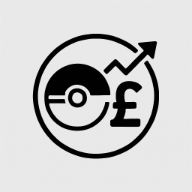
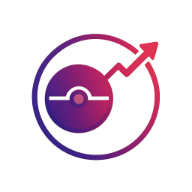
Update to fvicon and discord

Changed region(s): [[0.1562, 0.1562, 0.8438, 0.8438]]

diff --git a/src/components/Footer.tsx b/src/components/Footer.tsx
@@ -1,12 +1,11 @@
-import React from 'react'
-import Link from 'next/link'
+import React from "react";
+import Link from "next/link";
 
 export default function Footer() {
   return (
-    <footer className="bg-white/5 dark:bg-black/20 backdrop-blur-lg border-t border-white/10 dark:border-white/5 mt-auto">
+    <footer className="bg-transparent backdrop-blur-lg border-t border-white/10 dark:border-white/5 mt-auto">
       <div className="max-w-[1280px] mx-auto px-6 py-8">
-        <div className="grid grid-cols-1 md:grid-cols-3 gap-8">
-          
+        <div className="grid grid-cols-1 md:grid-cols-2 gap-8">
           {/* Left Column - Branding */}
           <div className="space-y-4">
             <h3 className="text-lg font-semibold text-black dark:text-white">
@@ -15,83 +14,57 @@ export default function Footer() {
             <p className="text-sm text-black/70 dark:text-white/70">
               Made for sellers. Updated for today.
             </p>
+           
           </div>
 
           {/* Center Column - Links */}
-          <div className="space-y-4">
-            <h4 className="text-sm font-medium text-black dark:text-white uppercase tracking-wide">
-              Quick Links
-            </h4>
-            <div className="space-y-2">
-              <Link 
-                href="/privacy" 
-                className="block text-sm text-black/70 dark:text-white/70 hover:text-black dark:hover:text-white transition-colors"
-              >
-                Privacy Policy
-              </Link>
-              <Link 
-                href="/auth/signin" 
-                className="block text-sm text-black/70 dark:text-white/70 hover:text-black dark:hover:text-white transition-colors"
-              >
-                Sign In
-              </Link>
-            </div>
-          </div>
-
-          {/* Right Column - Community */}
-          <div className="space-y-4">
-            <h4 className="text-sm font-medium text-black dark:text-white uppercase tracking-wide">
-              Community
-            </h4>
-            <div className="space-y-3">
-              {/* Discord Link - You can add your Discord invite link here */}
-              <a 
-                href="YOUR_DISCORD_INVITE_LINK_HERE" 
-                target="_blank" 
+          <div className="space-y-4 justify-end flex items-start">
+          <Link
+                href="https://discord.gg/s6AGM8cm"
+                target="_blank"
                 rel="noopener noreferrer"
                 className="flex items-center space-x-3 text-sm text-black/70 dark:text-white/70 hover:text-black dark:hover:text-white transition-colors"
               >
                 {/* Discord Icon */}
-                <svg 
-                  className="w-5 h-5" 
-                  fill="currentColor" 
+                <svg
+                  className="w-5 h-5"
+                  fill="currentColor"
                   viewBox="0 0 24 24"
                   aria-hidden="true"
                 >
-                  <path d="M20.317 4.3698a19.7913 19.7913 0 00-4.8851-1.5152.0741.0741 0 00-.0785.0371c-.211.3753-.4447.8648-.6083 1.2495-1.8447-.2762-3.68-.2762-5.4868 0-.1636-.3933-.4058-.8742-.6177-1.2495a.077.077 0 00-.0785-.037 19.7363 19.7363 0 00-4.8852 1.515.0699.0699 0 00-.0321.0277C.5334 9.0458-.319 13.5799.0992 18.0578a.0824.0824 0 00.0312.0561c2.0528 1.5076 4.0413 2.4228 5.9929 3.0294a.0777.0777 0 00.0842-.0276c.4616-.6304.8731-1.2952 1.226-1.9942a.076.076 0 00-.0416-.1057c-.6528-.2476-1.2743-.5495-1.8722-.8923a.077.077 0 01-.0076-.1277c.1258-.0943.2517-.1923.3718-.2914a.0743.0743 0 01.0776-.0105c3.9278 1.7933 8.18 1.7933 12.0614 0a.0739.0739 0 01.0785.0095c.1202.099.246.1981.3728.2924a.077.077 0 01-.0066.1276 12.2986 12.2986 0 01-1.873.8914.0766.0766 0 00-.0407.1067c.3604.698.7719 1.3628 1.225 1.9932a.076.076 0 00.0842.0286c1.961-.6067 3.9495-1.5219 6.0023-3.0294a.077.077 0 00.0313-.0552c.5004-5.177-.8382-9.6739-3.5485-13.6604a.061.061 0 00-.0312-.0286zM8.02 15.3312c-1.1825 0-2.1569-1.0857-2.1569-2.419 0-1.3332.9555-2.4189 2.157-2.4189 1.2108 0 2.1757 1.0952 2.1568 2.419-.0188 1.3332-.9555 2.4189-2.1569 2.4189zm7.9748 0c-1.1825 0-2.1569-1.0857-2.1569-2.419 0-1.3332.9554-2.4189 2.1569-2.4189 1.2108 0 2.1757 1.0952 2.1568 2.419 0 1.3332-.9554 2.4189-2.1568 2.4189Z"/>
+                  <path d="M20.317 4.3698a19.7913 19.7913 0 00-4.8851-1.5152.0741.0741 0 00-.0785.0371c-.211.3753-.4447.8648-.6083 1.2495-1.8447-.2762-3.68-.2762-5.4868 0-.1636-.3933-.4058-.8742-.6177-1.2495a.077.077 0 00-.0785-.037 19.7363 19.7363 0 00-4.8852 1.515.0699.0699 0 00-.0321.0277C.5334 9.0458-.319 13.5799.0992 18.0578a.0824.0824 0 00.0312.0561c2.0528 1.5076 4.0413 2.4228 5.9929 3.0294a.0777.0777 0 00.0842-.0276c.4616-.6304.8731-1.2952 1.226-1.9942a.076.076 0 00-.0416-.1057c-.6528-.2476-1.2743-.5495-1.8722-.8923a.077.077 0 01-.0076-.1277c.1258-.0943.2517-.1923.3718-.2914a.0743.0743 0 01.0776-.0105c3.9278 1.7933 8.18 1.7933 12.0614 0a.0739.0739 0 01.0785.0095c.1202.099.246.1981.3728.2924a.077.077 0 01-.0066.1276 12.2986 12.2986 0 01-1.873.8914.0766.0766 0 00-.0407.1067c.3604.698.7719 1.3628 1.225 1.9932a.076.076 0 00.0842.0286c1.961-.6067 3.9495-1.5219 6.0023-3.0294a.077.077 0 00.0313-.0552c.5004-5.177-.8382-9.6739-3.5485-13.6604a.061.061 0 00-.0312-.0286zM8.02 15.3312c-1.1825 0-2.1569-1.0857-2.1569-2.419 0-1.3332.9555-2.4189 2.157-2.4189 1.2108 0 2.1757 1.0952 2.1568 2.419-.0188 1.3332-.9555 2.4189-2.1569 2.4189zm7.9748 0c-1.1825 0-2.1569-1.0857-2.1569-2.419 0-1.3332.9554-2.4189 2.1569-2.4189 1.2108 0 2.1757 1.0952 2.1568 2.419 0 1.3332-.9554 2.4189-2.1568 2.4189Z" />
                 </svg>
                 <span>Join our Discord</span>
-              </a>
-            </div>
+              </Link>
           </div>
+
+          {/* Right Column - Community */}
+    
         </div>
 
         {/* Disclaimer Section */}
-        <div className="mt-8 pt-6 border-t border-white/10 dark:border-white/5">
-          <div className="space-y-3">
-            <h4 className="text-sm font-medium text-black dark:text-white uppercase tracking-wide">
-              Disclaimer
-            </h4>
+        <div className="mt-4 pt-2 border-t border-white/10 dark:border-white/5">
+          <div className="space-y-3">      
             <div className="text-xs text-black/60 dark:text-white/60 leading-relaxed space-y-2">
               <p>
-                {/* Add your disclaimer text here */}
-                YOUR_DISCLAIMER_TEXT_HERE - Replace this with your custom disclaimer text about the service, data accuracy, investment advice, etc.
-              </p>
-              <p>
-                {/* Additional disclaimer paragraphs if needed */}
-                Add any additional disclaimer paragraphs here. You can include information about data sources, accuracy, investment advice warnings, etc.
+                Disclaimer: All prices displayed are based on recent publicly
+                sold listings from eBay and other marketplaces. Whilst we aim to
+                provide accurate and up-to-date information to assist collectors
+                in evaluating their Pokémon card collection, we do so without
+                any warranty or guarantee of returns.
               </p>
             </div>
           </div>
         </div>
 
         {/* Copyright */}
-        <div className="mt-6 pt-4 border-t border-white/10 dark:border-white/5">
+        <div className="mt-2 pt-3 border-t border-white/10 dark:border-white/5">
           <p className="text-xs text-black/50 dark:text-white/50 text-center">
-            © {new Date().getFullYear()} Card Intelligence. All rights reserved.
+            © {new Date().getFullYear()} Card Intelligence. All rights
+            reserved.
           </p>
         </div>
       </div>
     </footer>
-  )
-} 
+  );
+}
